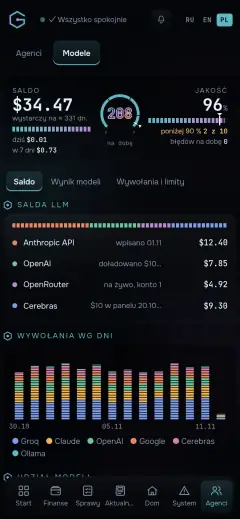
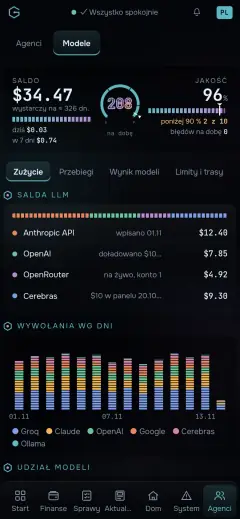
Noc 14.11: panel Agenci i Modele z modułów rdzenia, nowe twarze w panelu; dziennik 3 wpisy, SEO /zmiany/
- Zrzuty panel-agenci, -tony, -sally, -agenci-tel, -modele-tel, okładka i film „Agenci AI” na nowo: twarze z kadrów
  strony, zakładka Warsztat, podzakładki modułu „Modele”. panel-modele (komputer) bez widocznej zmiany, zostaje.
- tools/panel-demo: fake.py odpowiada na zapytanie samodzielności (reliability.autonomy, bez tego „Decydują sami” = —),
  rolik_common.py tłumaczy podzakładki modułu „Modele” rdzenia.
- Dziennik: Agenci i Modele z rdzenia (przed/po), głowy z własnym wyglądem, centrum bezpieczeństwa rdzenia.
- SEO (Marek): dłuższe title /zmiany/ (PL/EN/RU), opis EN polityki prywatności 66 → 119 znaków. PLAN.md.

Nocne-odswiezanie: tak
Kind: feat

diff --git a/tools/panel-demo/rolik_common.py b/tools/panel-demo/rolik_common.py
@@ -17,6 +17,7 @@ PL = [
     ["категория", "kategoria"], ["аналитика", "analiza"], ["новости", "wiadomości"], ["Открыть", "Otwórz"], ["дольше всех", "najdłużej"],
     [" мин", " min"], ["(\\d) ч(?![а-я])", "$1 godz."], ["само: ", "automatycznie: "], ["Claude готовит", "Claude przygotowuje"], ["вопросы", "pytania"],
     ["Решила", "Zdecydowała"], ["Отправила", "Wysłała"], ["Решил", "Zdecydował"], ["Отправил", "Wysłał"],
+    ["Лимиты и маршруты", "Limity i trasy"], ["Расход", "Zużycie"], ["Прогоны", "Przebiegi"], ["вызовы", "wywołania"],  # moduł „Modele” rdzenia (14.11)
     ["пн (\\d)", "pn $1"], ["вт (\\d)", "wt $1"], ["ср (\\d)", "śr $1"], ["чт (\\d)", "czw $1"], ["пт (\\d)", "pt $1"], ["сб (\\d)", "sob $1"], ["вс (\\d)", "nd $1"],
 ]
 # Funkcje JS (tekst do page.evaluate albo do skryptu startowego).

diff --git a/tools/panel-demo/fake.py b/tools/panel-demo/fake.py
@@ -61,6 +61,14 @@ def rows(sql, params=None):
     if "where agent = %s" in s:
         ag, days = params
         return [a for a in _since(24 * int(days)) if a["agent"] == ag]
+    if "count(*) filter (where kind = 'handoff')" in s:   # 14.11.2026: samodzielność (reliability.autonomy), 7 dni i poprzednie 7
+        out = {}
+        for a in _since(24 * 14):
+            r = out.setdefault((a["agent"], a["at"] > NOW - timedelta(days=7)), {"n": 0, "failed": 0, "owner": 0})
+            r["n"] += 1
+            r["failed"] += a["ok"] is False
+            r["owner"] += a["kind"] == "handoff"
+        return [{"agent": ag, "now": now, **v} for (ag, now), v in out.items()]
     if s.startswith("select kind, ok, count(*)"):
         from collections import Counter
         c = Counter((a["kind"], a["ok"]) for a in _since(24))

diff --git a/tools/odswiez/PLAN.md b/tools/odswiez/PLAN.md
@@ -1,20 +1,29 @@
 # Plan prowadzenia strony (aktualizowany co noc)
 
-Ostatnia noc: 2026-11-11 (druga runda: kadry decyzji panelu z nicią sprawy)
+Ostatnia noc: 2026-11-14 (panel: Agenci i Modele z modułów rdzenia, nowe twarze; dziennik: 3 wpisy)
 
 ## Nieaktualne
+- Film panel.mp4 (12.11): zakładka „Modele” ma już podzakładki rdzenia (zużycie, przebiegi, wynik, limity i trasy),
+  a twarze agentów są nowe. Przenagrać `rolik_panel.py` (panel uruchomić od nowa przed nagraniem).
 - Konsola ISP (public/img/demo): zrzuty z 05.11 w niebieskim motywie „Kolor”. Przenagrać, gdy platforma ISP dostanie
   ciemny motyw zbliżony do panelu; inaczej zostają.
-- Pulpit (pulpit-gitcloud): wspólny czat głów i podpis „czym zajęty” nad głową są tylko w tekście dziennika, bez kadru.
-  Film pulpit.mp4 (06.11) nagrany ręcznie na żywym pulpicie w osobnym katalogu domowym; przepisu w repo nie ma, więc
-  12.11 został bez zmian. Przenagrać dopiero z przepisem (profil demo pulpitu, wymyślone pliki, bez prawdziwego ekranu).
+- Pulpit (pulpit-gitcloud): film pulpit.mp4 nagrany ręcznie, przepisu w repo nie ma. Przenagrać dopiero z przepisem
+  (profil demo pulpitu, wymyślone pliki, bez prawdziwego ekranu).
 
 ## Do pokazania
-- Nić sprawy w ruchu: pętla kilku sekund (pasek idzie, zatrzymuje się, kończy na zielono); dane są już w
-  tools/panel-demo/fake_dec.py (PLANS), wystarczy nagranie screencastem jak rolik.py.
-- Czat głów na pulpicie: kadr z trzema awatarami na danych przykładowych (bez prawdziwych rozmów).
+- Centrum bezpieczeństwa rdzenia (ocena od 0 do 100, „Napraw”, dziennik tarczy): kadr na danych przykładowych. W
+  tools/panel-demo nie ma jeszcze danych tarczy; dopisać je do fake.py jak dla dziennika agentów.
+- Nić sprawy w ruchu: pętla kilku sekund (dane w tools/panel-demo/fake_dec.py, PLANS), screencast jak rolik.py.
+- Czat głów na pulpicie: kadr z trzema awatarami na danych przykładowych.
 
 ## Nie udało się / ograniczenia
+- Głowy: po kadrach z 13.11 doszła tylko średnia warstwa porów (działa w małym oknie, w kadrze 360 px niewidoczna),
+  więc bez przenagrania. Pilot: zniknęła lista rankingu, której na stronie nie było; bez przenagrania.
+
+## SEO (Marek, obchód 12.11)
+- Title > 70 znaków: główna PL/EN/RU (72/71/74) zostaje, to pozycjonowanie właściciela.
+- Title > 70: pulpit-gitcloud PL i RU (71/72), EN baza-b2b-nl-be (72), RU dyzurny (74); skrócić o kilka znaków.
+- Description /cv/ PL i EN (197/202): składa się z roli i pierwszego akapitu bio; potrzebne osobne krótkie pole opisu.
 
 ## Pomysły
 - Krótki film „noc w GitCloud”: co robią zadania nocne (kopie, przegląd kodu, dokumentacja, przenoszenie wspólnego
